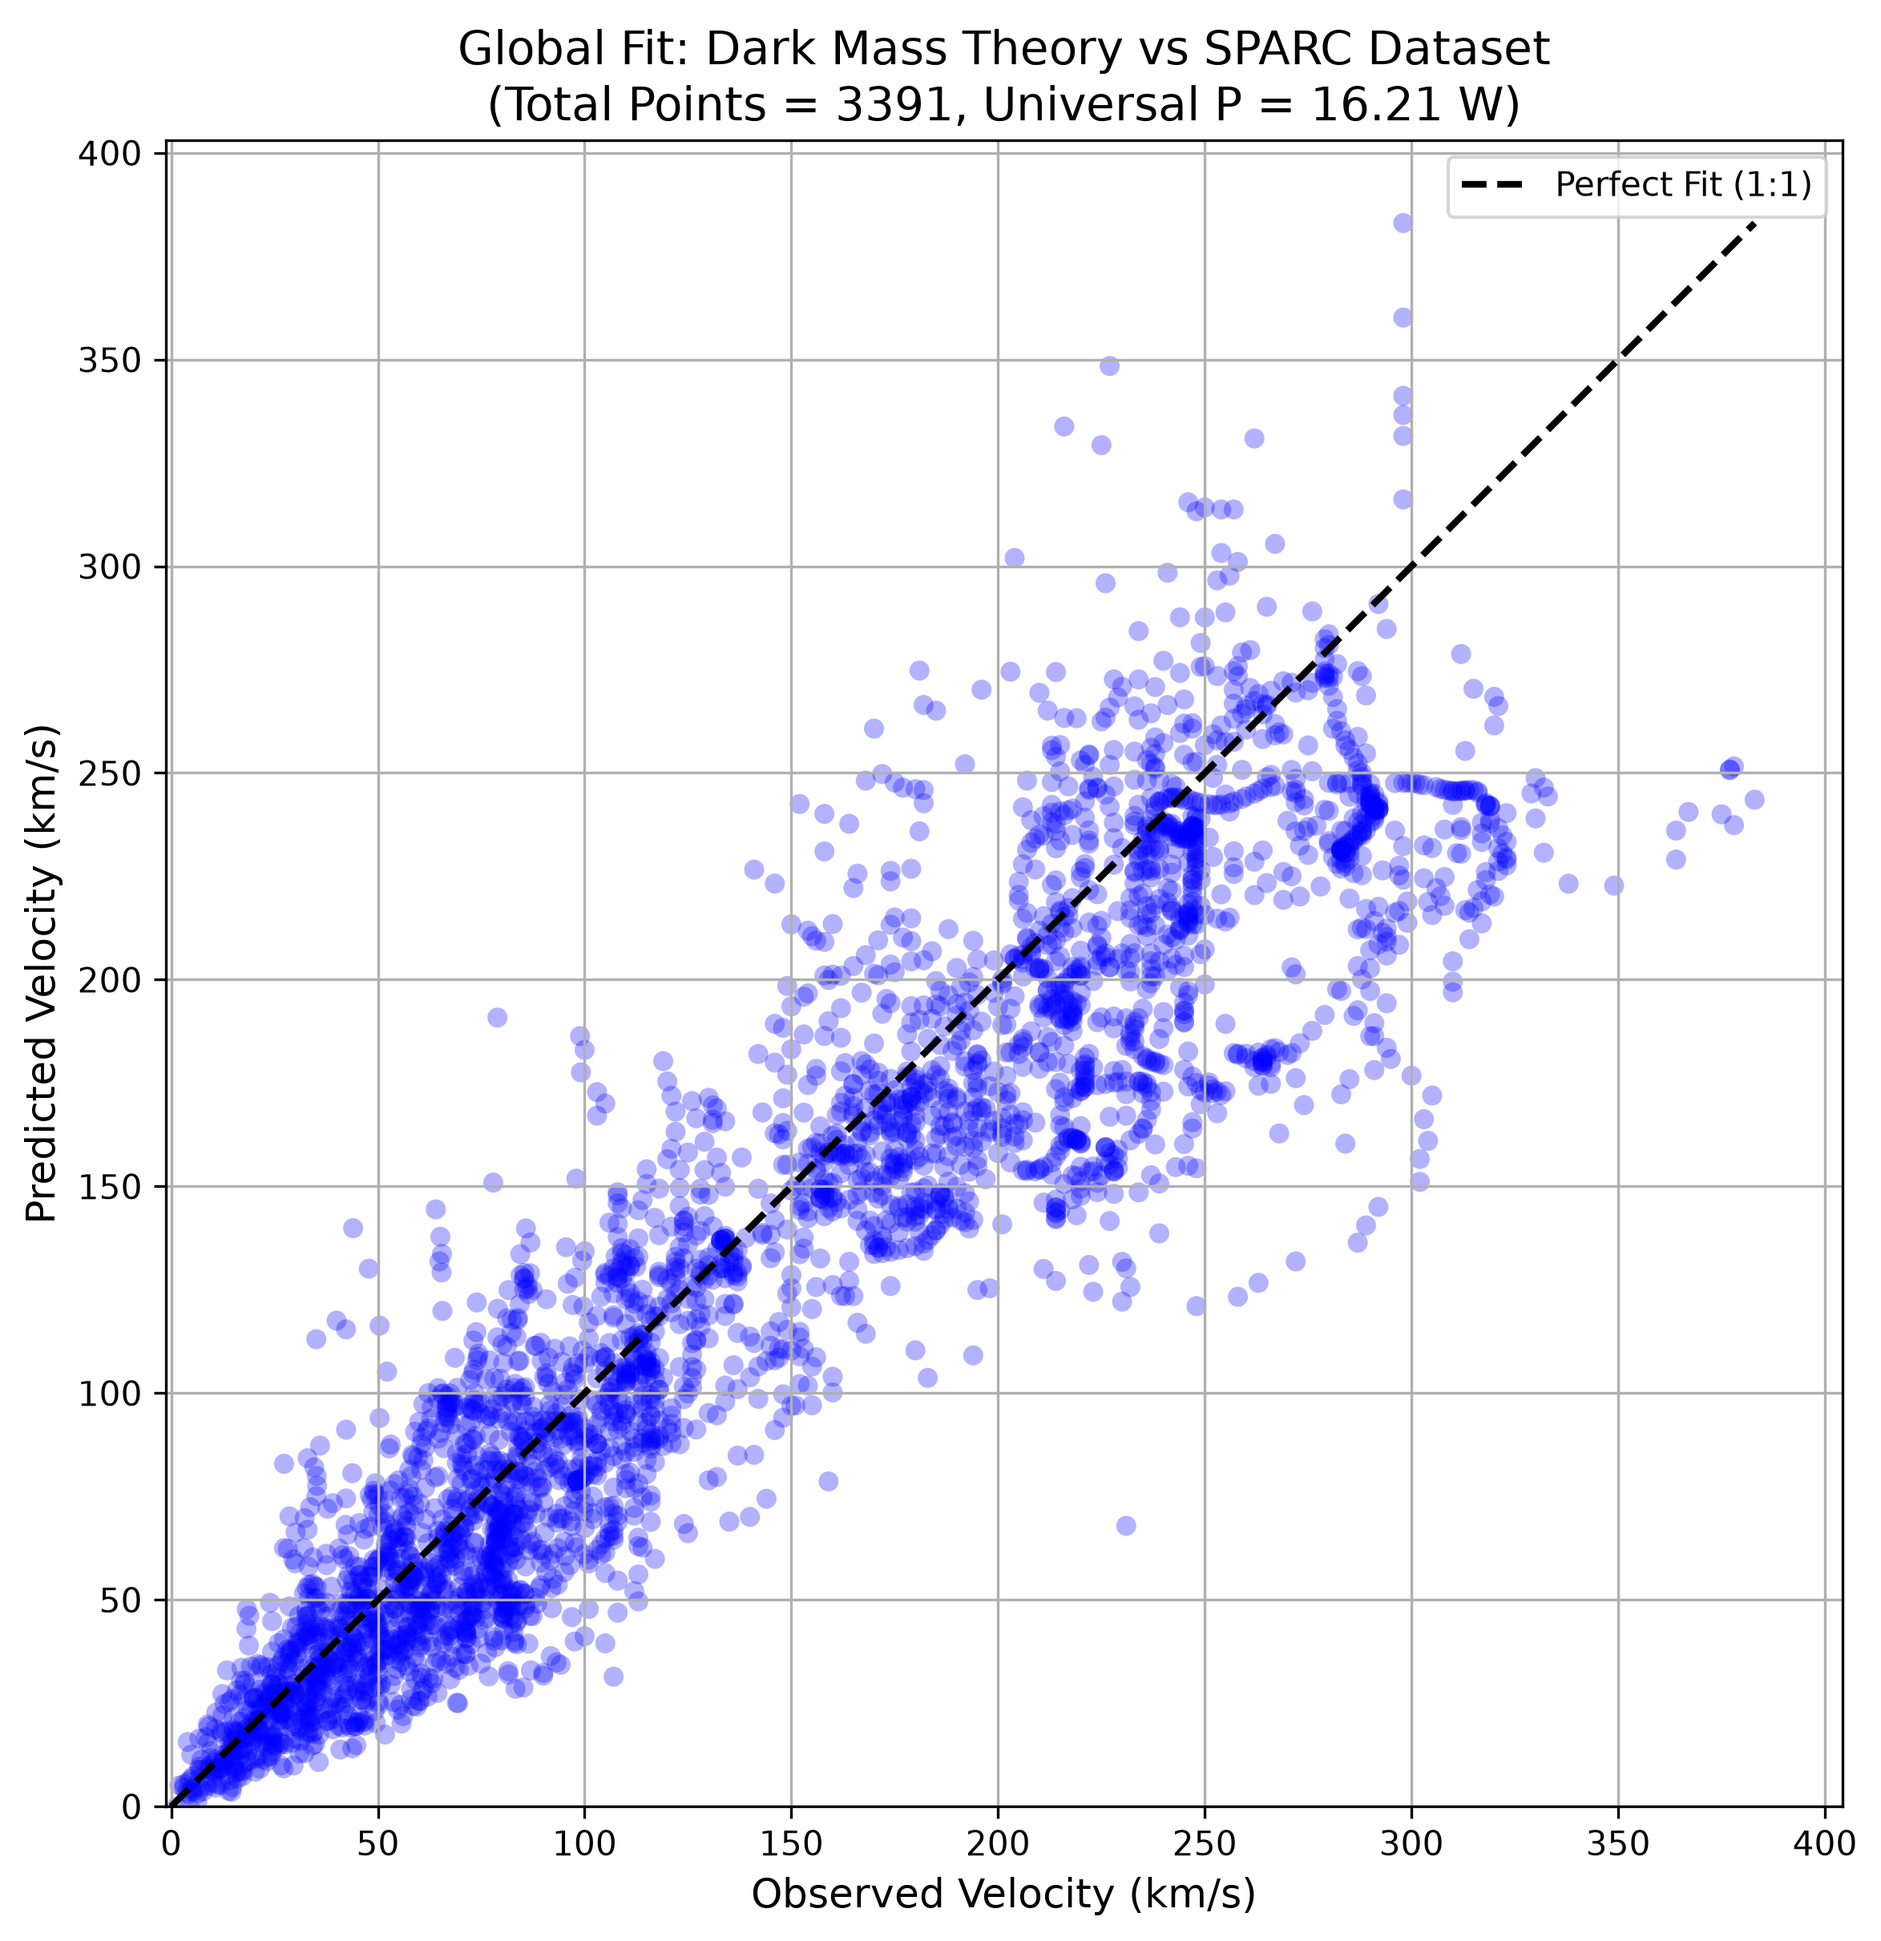
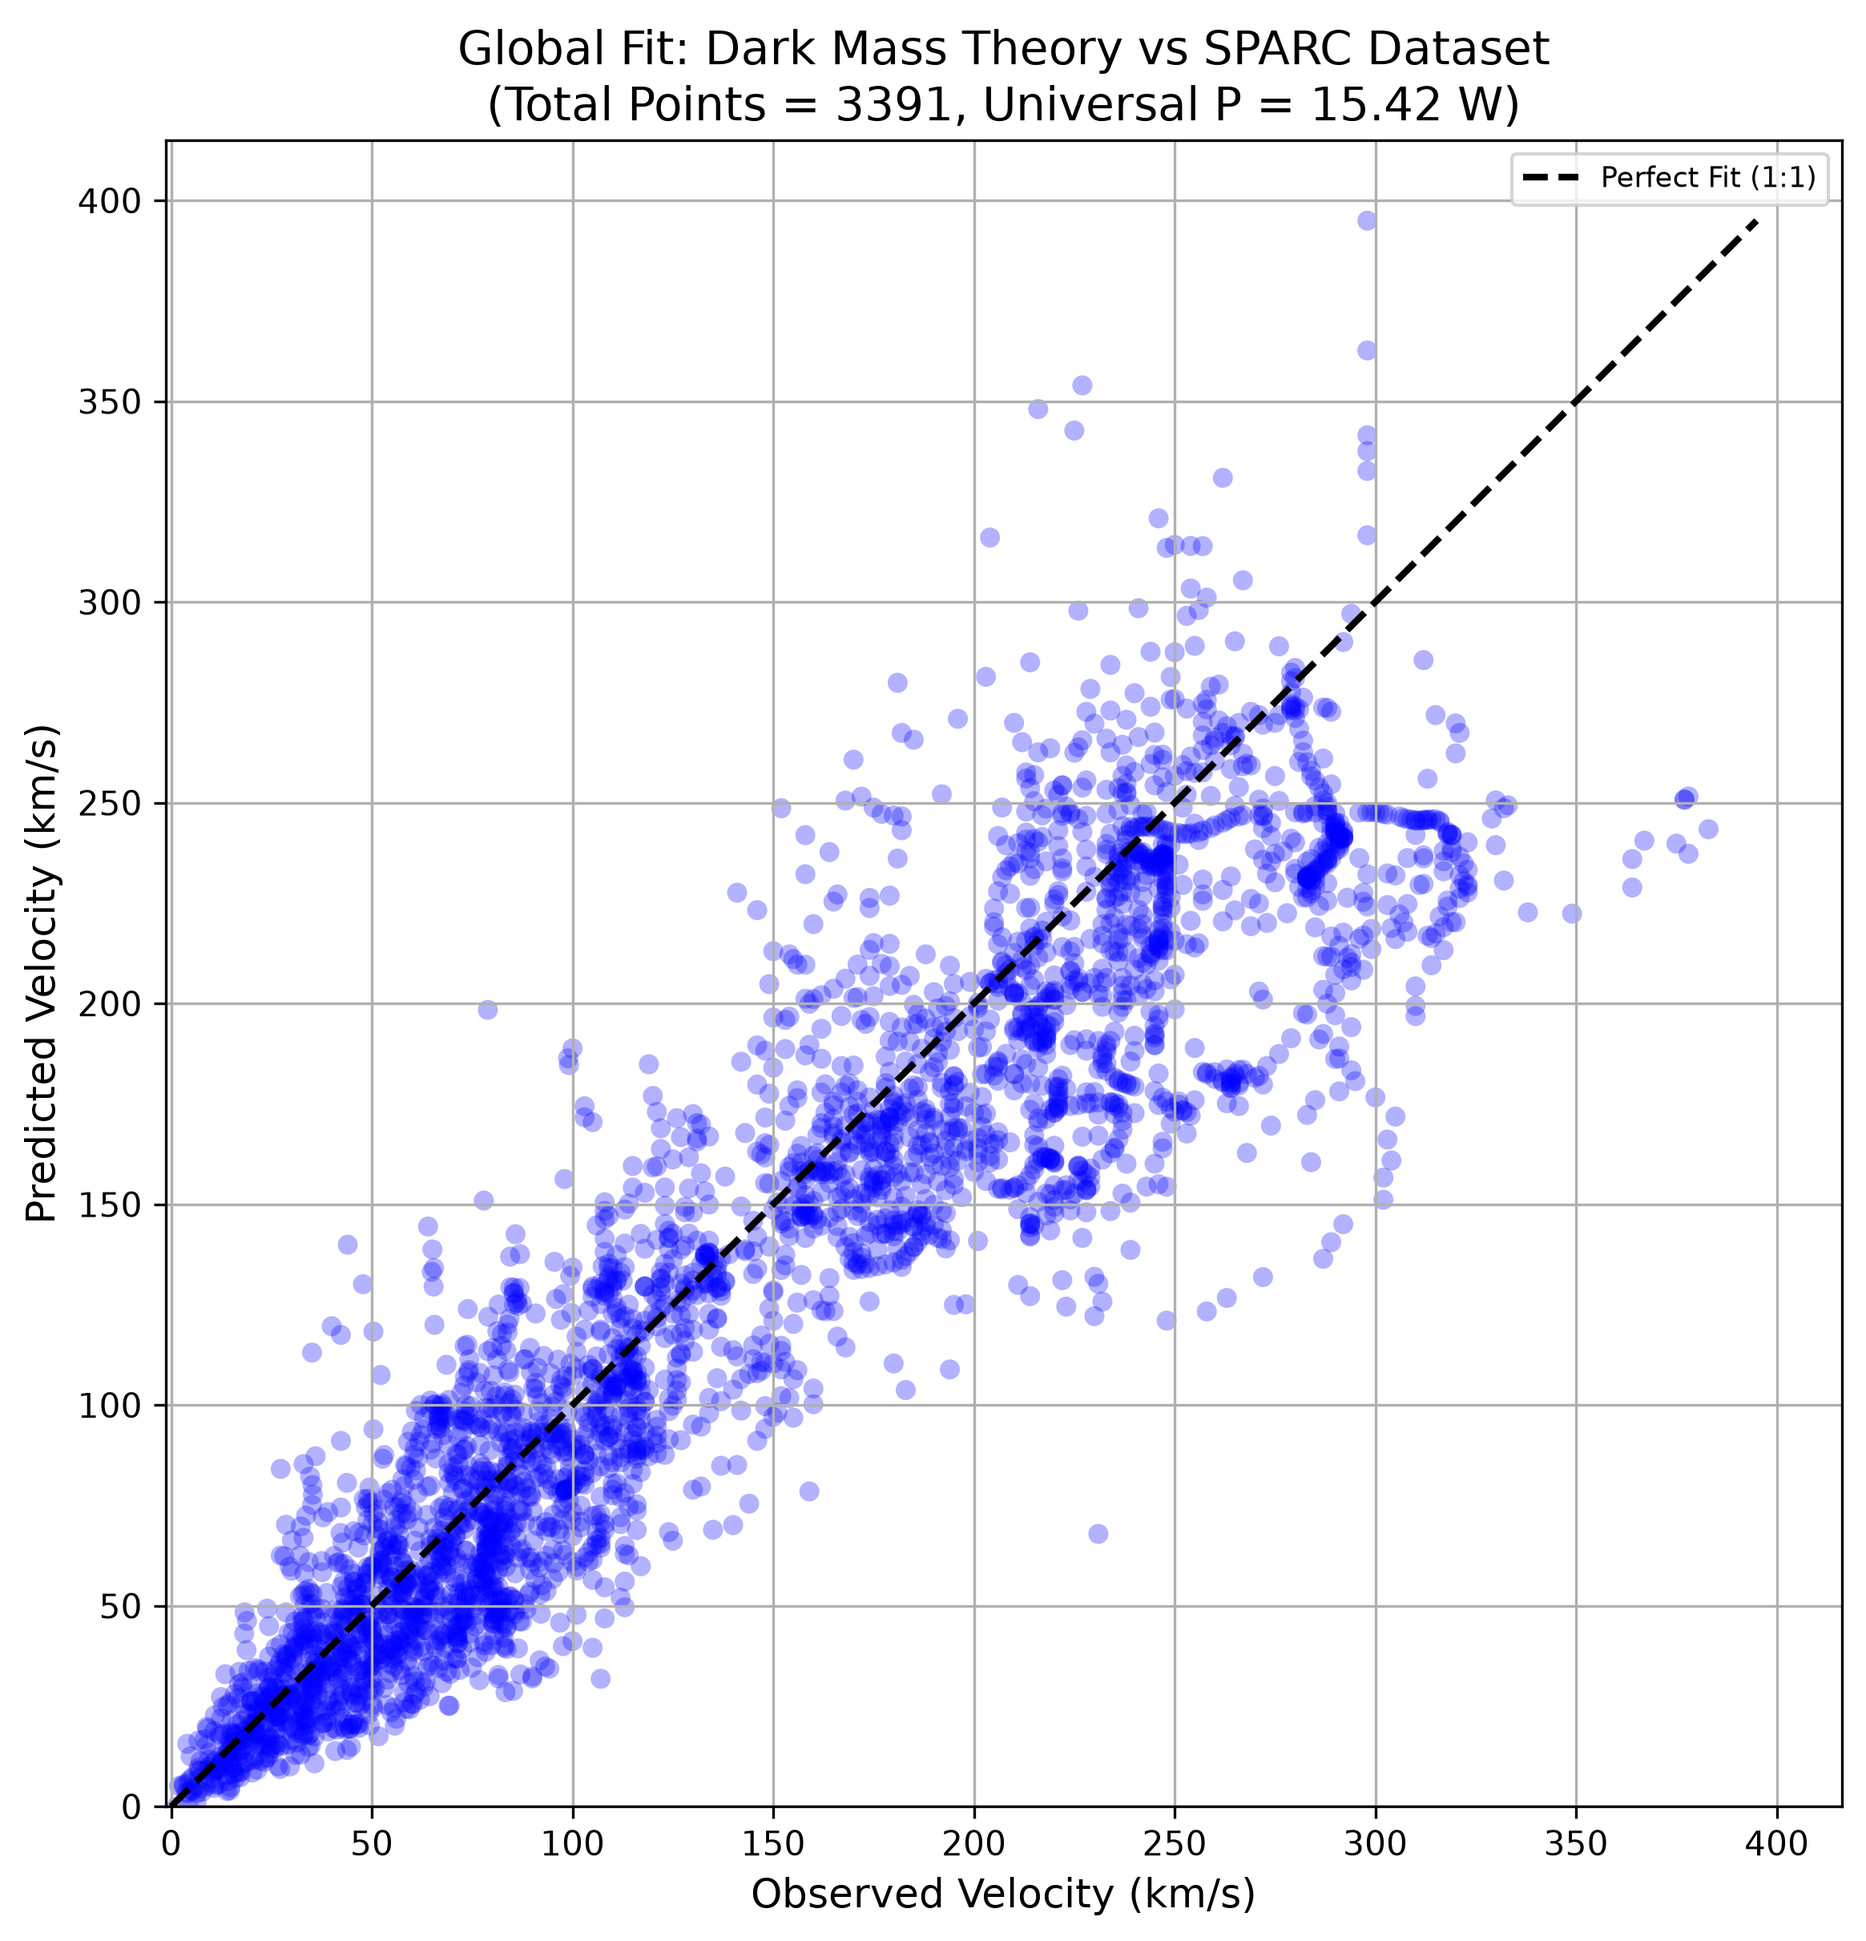
better graphs, maybe a little too thin

diff --git a/sparc/sparc_dm_brute.py b/sparc/sparc_dm_brute.py
@@ -16,9 +16,9 @@ sqrt_Upsilon_bulge = np.sqrt(Upsilon_bulge)
 MIN_DENSITY_FOR_DM = 0
 MIN_DENSITY_WITHIN_R_D = 0   
 
-NUM_BLOBS_THETA = 180
-NUM_LAYERS_Z = 27
-NUM_R_BINS = 87  # Added for continuous 3D volume integration
+NUM_BLOBS_THETA = 90
+NUM_LAYERS_Z = 11
+NUM_R_BINS = 77  # Added for continuous 3D volume integration
 USE_EXPONENTIAL_DISK = True
 
 def get_sparc_galaxy_scale_height(radius_kpc, R_d):
@@ -288,29 +288,35 @@ for gal in galaxies:
     V_bar_sq_grid_kms = np.clip(g['Vdisk_grid']**2 + g['Vbul_grid']**2 + g['Vgas_grid'] * np.abs(g['Vgas_grid']), 0, None)
     V_tot_final_grid_kms = np.sqrt(V_bar_sq_grid_kms + V_dm_final_grid_kms**2)
     
-    plt.figure(figsize=(8, 5))
-    plt.plot(g['R'], g['Vgas'], 'b:', label='Gas')
-    plt.plot(g['R'], g['Vdisk'], 'y:', label='Stars')
-    
-    # Plot model against high-res grid
-    plt.plot(g['R_grid_kpc'], g['Vgas_test_grid_kms'], 'k:', label='Gas_test (3D Grid)')
-    plt.plot(g['R_grid_kpc'], np.sqrt(V_bar_sq_grid_kms), 'y:', label='Baryons')
-    
-    if np.any(g['Vbul'] > 0):
-        plt.plot(g['R'], g['Vbul'], 'g:', label='Bulge')
-        
-    plt.plot(g['R_grid_kpc'], V_dm_final_grid_kms, 'm--', label=f'Dark Mass (P={best_global_P:.2f}W)')
-    plt.plot(g['R'], g['V_mond_kms'], 'c-.', linewidth=2, label='MOND (Simple)')
-    
+    plt.figure(figsize=(9, 6))
+
     # Plot final total prediction on the smooth grid
-    plt.plot(g['R_grid_kpc'], V_tot_final_grid_kms, 'r-', linewidth=2, label='Total DM Predicted')
-    plt.errorbar(g['R'], g['Vobs'], yerr=g['eVobs'], fmt='ko', label='Observed Data', capsize=2)
+    plt.plot(g['R_grid_kpc'], V_dm_final_grid_kms, 'm--', label=f'dark mass (dm)')
+    plt.plot(g['R_grid_kpc'], V_tot_final_grid_kms, 'r-', linewidth=2, label='baryons + dm')
+
+
+    plt.plot(g['R'], g['Vgas'], 'g', label='gas', linestyle='dotted', linewidth=0.7)
+    plt.plot(g['R'], g['Vdisk'], 'violet', label='disk', linestyle='dashdot', linewidth=0.7)
+    if np.any(g['Vbul'] > 0):
+        plt.plot(g['R'], g['Vbul'], 'red', label='bulge', linestyle='dashed', linewidth=0.7)
+  
+    # Plot model against high-res grid
+    plt.plot(g['R_grid_kpc'], g['Vgas_test_grid_kms'], 'g', label="gas ($\\Sigma_{gas}$)", linewidth=0.5)
+    plt.plot(g['R_grid_kpc'], np.sqrt(V_bar_sq_grid_kms), 'blue', label='all baryons', linewidth=0.7)
+    
+
+    plt.plot(g['R'], g['V_mond_kms'], 'c-.', linewidth=1, label='MOND')
+
+ 
+    plt.errorbar(g['R'], g['Vobs'], yerr=g['eVobs'], fmt='ko', label='observed', capsize=1.5, capthick=1.0, markersize=2, elinewidth=0.6)
     
     plt.xlabel('Radius (kpc)')
     plt.ylabel('Velocity (km/s)')
     plt.title(f'{gal} Kinematics (Universal P = {best_global_P:.2f} W)')
-    plt.legend()
-    plt.grid(True)
+    leg = plt.legend(fontsize="small")
+    leg.get_frame().set_linewidth(0.0) # borderless but opaque white background
+
+    plt.grid(True, linewidth=0.5, alpha=0.7)
     
     plt.savefig(os.path.join(output_galaxies, f"{gal}_dm_mass.png"), bbox_inches='tight', dpi=300)
     plt.close()
@@ -323,7 +329,7 @@ plt.plot([0, max_val], [0, max_val], 'k--', linewidth=2, label='Perfect Fit (1:1
 plt.xlabel('Observed Velocity (km/s)', fontsize=12)
 plt.ylabel('Predicted Velocity (km/s)', fontsize=12)
 plt.title(f'Global Fit: Dark Mass Theory vs SPARC Dataset\n(Total Points = {len(all_V_obs)}, Universal P = {best_global_P:.2f} W)', fontsize=14)
-plt.legend()
+plt.legend(fontsize="small")
 plt.grid(True)
 plt.axis('equal')
 plt.xlim(0, max_val + 20)
@@ -355,7 +361,7 @@ for gal in galaxies:
     all_g_pred.extend(g_pred)
 
 plt.figure(figsize=(9, 9))
-plt.scatter(all_g_obs, all_g_pred, alpha=0.3, edgecolors='none', c='blue')
+plt.scatter(all_g_pred, all_g_obs, alpha=0.3, edgecolors='none', c='blue')
 
 plt.xscale('log')
 plt.yscale('log')
@@ -369,10 +375,10 @@ plt.xlim(min_val, max_val)
 plt.ylim(min_val, max_val)
 plt.axis('square')
 
-plt.xlabel('Observed Acceleration $g_{obs}$ (m/s$^2$)', fontsize=12)
-plt.ylabel('Predicted Acceleration $g_{pred}$ (m/s$^2$)', fontsize=12)
+plt.ylabel('Observed Acceleration $g_{obs}$ (m/s$^2$)', fontsize=12)
+plt.xlabel('Predicted Acceleration $g_{pred}$ (m/s$^2$)', fontsize=12)
 plt.title(f'Global Fit: Dark Mass vs Observed Acceleration\n(Total Points = {len(all_g_obs)}, Universal P = {best_global_P:.2f} W)', fontsize=14)
-plt.legend()
+plt.legend(fontsize="small")
 plt.grid(True, which="both", ls="--", alpha=0.5)
 
 plt.savefig(os.path.join(output_dir, "global_predicted_accel_vs_obs.png"), bbox_inches='tight', dpi=200)
